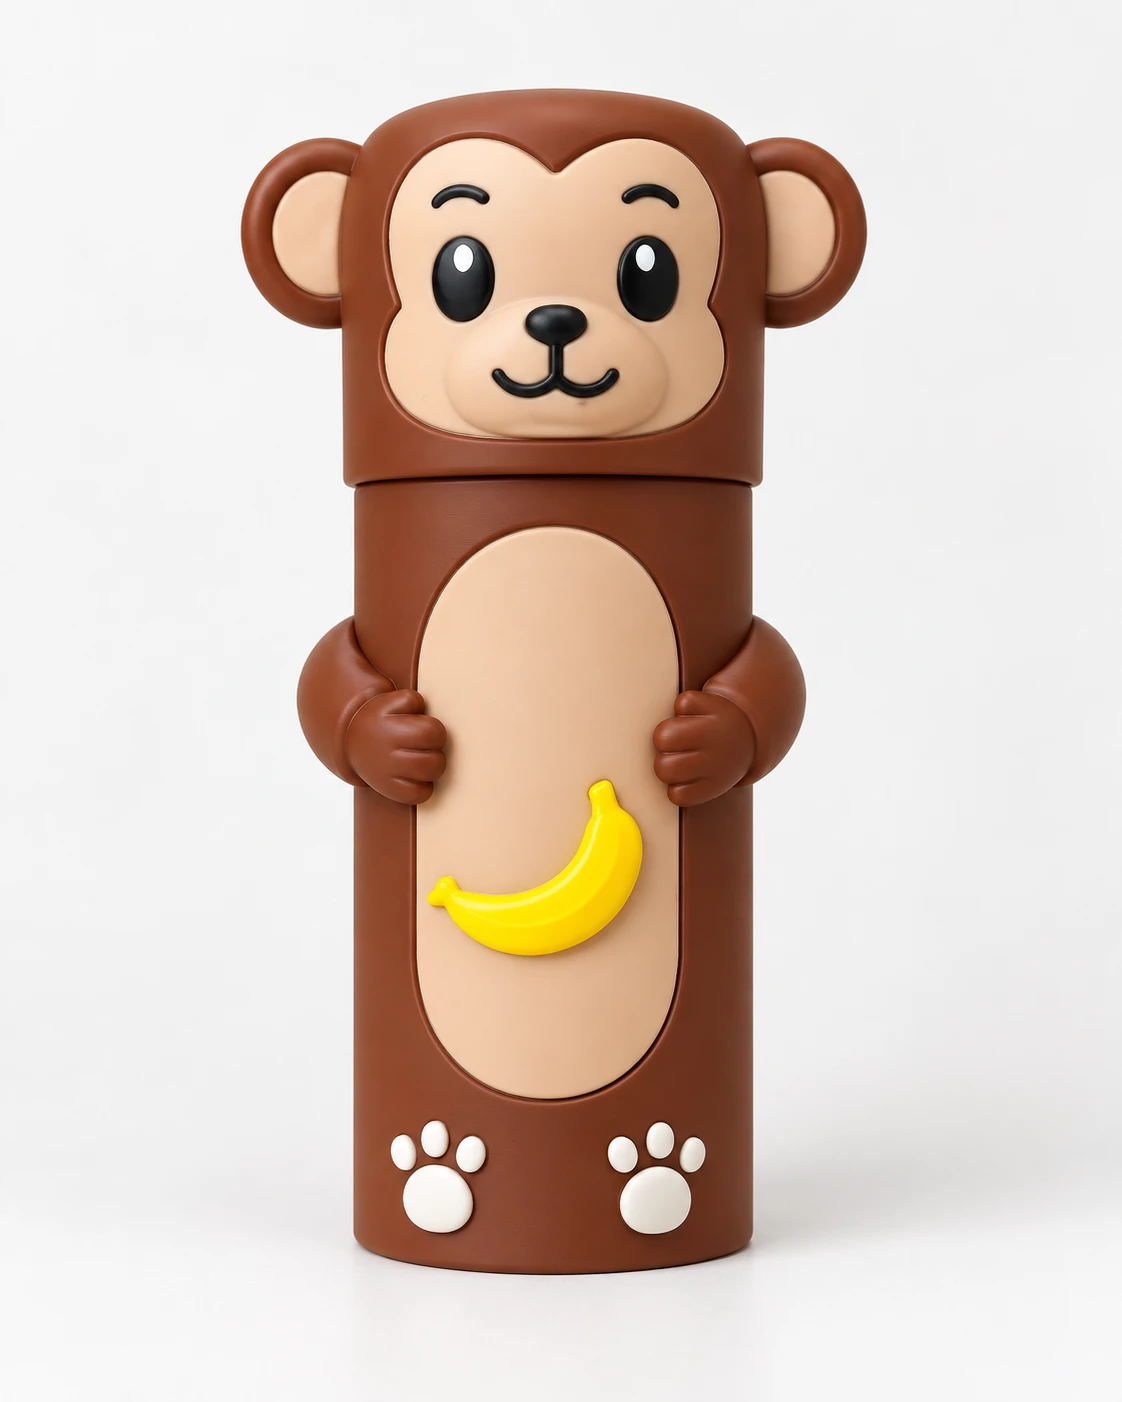
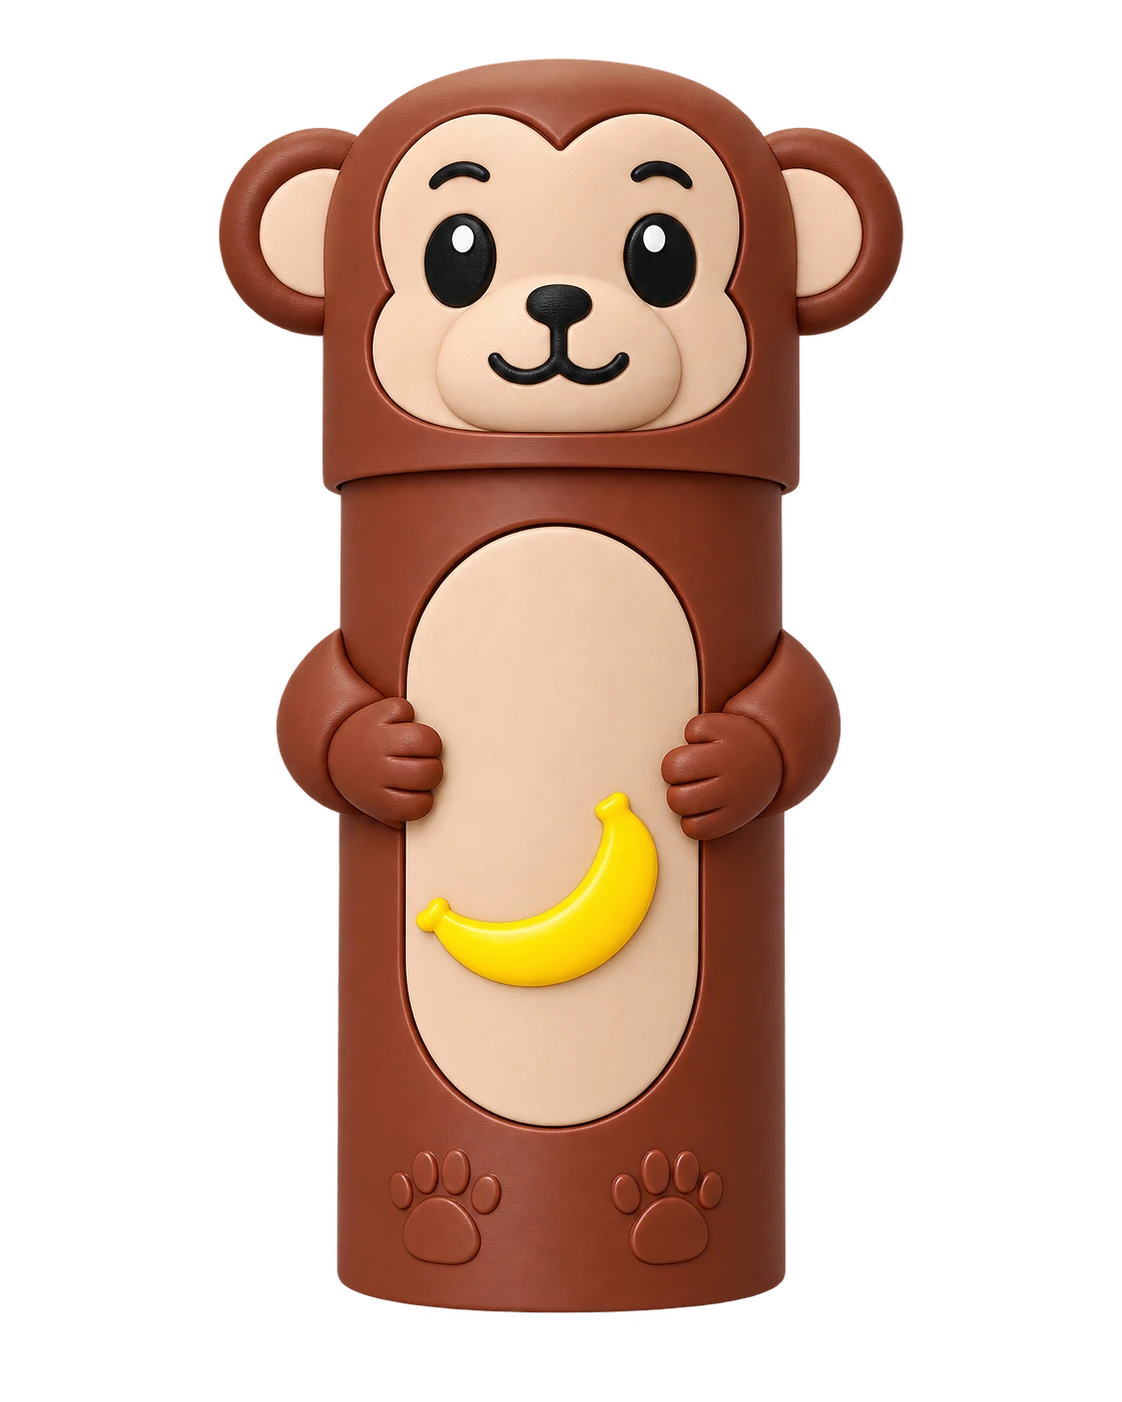
feat(macaco): the new product photo (brown paw prints) as the vitrine picture and cards
- product-macacoscopio-cutout.webp (banner, "Foto" tab and demonstration), card-macacoscopio.webp and card-preview-macacoscopio.webp
  from the photo sent on 02/10/2026 in place of the previous one (design/originais/macacoscopio-foto.webp, already on a transparent
  background). recortar_foto.py now uses the photo's own alpha when it has one, and still cuts a light background otherwise.
- Same height and bottom margin as the other vitrine pictures, the sleeve centred on the lamp's axis: the black column (350 px in the
  1254 frame) stays behind the photo's sleeve (about 388 px), so the demonstration fits with the same lamp layers.
- products.js art h .8732, bottom .0534, foot .3118.

Changed region(s): [[0.1872, 0.0307, 1.0, 0.9508]]

diff --git a/dist/products.js b/dist/products.js
@@ -92,7 +92,7 @@ export const SHOWCASE = {
     }
   },
   macacoscopio:{
-    art:{h:.874, bottom:.0518, foot:.2935, alt:'Macacoscópio, capa de macaco marrom com uma banana, sobre uma pilastra branca'},
+    art:{h:.8732, bottom:.0534, foot:.3118, alt:'Macacoscópio, capa de macaco marrom com uma banana, sobre uma pilastra branca'},
     theme:{bannerStops:'#fcf5e5 0%,#f5e8c8 52%,#eddcb5 100%', headerBackground:'#f6ebd0', textColor:'#33200f', mutedColor:'#634526', accentColor:'#86441a'},
     demo:{
       // A lâmpada de fenda portátil em duas partes, renderizadas com a câmera da foto da vitrine (tools/render-aviao-macaco/monkeylamp.html):

diff --git a/tools/modelo-macaco/recortar_foto.py b/tools/modelo-macaco/recortar_foto.py
@@ -1,6 +1,6 @@
 """Recorta a foto do Macacoscópio (fundo cinza-claro neutro) e a encaixa no quadro das fotos da vitrine.
 Uso: blender -b -P recortar_foto.py -- <foto> <saida.png> [h=.8716] [bottom=.0542] [S=1254]
-- fundo: região neutra (pouca saturação) ligada à borda da imagem: o fundo claro e a sombra no chão, também neutra, saem juntos;
+- se a foto já tem fundo transparente, usa o alfa dela; senão, fundo: região neutra (pouca saturação) ligada à borda da imagem: o fundo claro e a sombra no chão, também neutra, saem juntos;
   o que é claro mas fica cercado pelo macaco (patinhas, brilho dos olhos) não é alcançado e fica;
 - borda: alfa pela mistura entre a cor do macaco (vizinho de dentro) e a do fundo (superfície ajustada), e a cor sem a mistura;
 - quadro: quadrado S, a peça com altura h e margem de baixo `bottom` (os números `art` do products.js), centrada no eixo do tubo.
@@ -8,7 +8,8 @@ Uso: blender -b -P recortar_foto.py -- <foto> <saida.png> [h=.8716] [bottom=.054
 import bpy,os,sys,numpy as np
 a=sys.argv[sys.argv.index('--')+1:];src,dst=os.path.abspath(a[0]),os.path.abspath(a[1])
 H=float(a[2]) if len(a)>2 else .8716;BOT=float(a[3]) if len(a)>3 else .0542;S=int(a[4]) if len(a)>4 else 1254
-im=bpy.data.images.load(src);w,h=im.size;x=np.array(im.pixels[:],np.float32).reshape(h,w,4)[::-1,:,:3].copy();bpy.data.images.remove(im)
+im=bpy.data.images.load(src);w,h=im.size;x4=np.array(im.pixels[:],np.float32).reshape(h,w,4)[::-1].copy();bpy.data.images.remove(im);x=x4[...,:3].copy()
+HAS_ALPHA=x4[...,3].min()<.99      # a foto já vem recortada (fundo transparente): usa o alfa dela
 mx=x.max(2);mn=x.min(2);sat=(mx-mn)/np.maximum(mx,1e-6)
 def shift(m,dy,dx):
     o=np.zeros_like(m);ys=slice(max(dy,0),h+min(dy,0));yd=slice(max(-dy,0),h+min(-dy,0));xs=slice(max(dx,0),w+min(dx,0));xd=slice(max(-dx,0),w+min(-dx,0))
@@ -16,7 +17,7 @@ def shift(m,dy,dx):
 def dil(m,k=1):
     for _ in range(k):m=m|shift(m,1,0)|shift(m,-1,0)|shift(m,0,1)|shift(m,0,-1)
     return m
-cand=(sat<.14)&(mx>.25)        # neutro: fundo claro e a sombra (de contato também), mais escura
+cand=np.zeros((h,w),bool) if HAS_ALPHA else (sat<.14)&(mx>.25)        # neutro: fundo claro e a sombra (de contato também), mais escura
 bg=np.zeros((h,w),bool);bg[0,:]=cand[0,:];bg[-1,:]=cand[-1,:];bg[:,0]=cand[:,0];bg[:,-1]=cand[:,-1]
 while True:
     n=dil(bg)&cand
@@ -40,6 +41,7 @@ for _ in range(8):
 d=F-B;al=np.clip(((x-B)*d).sum(2)/np.maximum((d*d).sum(2),1e-6),0,1)
 alpha=np.where(core,1.,np.where(band,al,0.)).astype(np.float32)
 col=np.where(alpha[...,None]>.02,B+(x-B)/np.maximum(alpha[...,None],.02),F);col=np.clip(np.where(core[...,None],x,col),0,1)
+if HAS_ALPHA:alpha,col=x4[...,3].copy(),x
 ys,xs=np.where(alpha>.5);top,bot=ys.min(),ys.max()
 # eixo do tubo: centro das linhas entre 55% e 85% da altura (abaixo das mãos, acima dos pés)
 mid=[(np.where(alpha[r]>.5)[0].min()+np.where(alpha[r]>.5)[0].max())/2 for r in range(int(top+.55*(bot-top)),int(top+.85*(bot-top)))]

diff --git a/VITRINE-AVIAO-MACACO-QA.md b/VITRINE-AVIAO-MACACO-QA.md
@@ -89,13 +89,14 @@ orelhas e os pés), `features` (preto: olhos, sobrancelhas, nariz e boca), `bana
 olhos, das orelhas, da barriga, da banana, dos pés, das costas e de dentro do tubo.
 
 **Foto da vitrine e cards (02/10/2026):** `product-macacoscopio-cutout.webp` (banner, aba "Foto" e demonstração), `card-macacoscopio.webp`
-e `card-preview-macacoscopio.webp` vêm da foto enviada em 02/10/2026 (`design/originais/macacoscopio-foto.webp`), recortada do
-fundo por `tools/modelo-macaco/recortar_foto.py` (Blender): o fundo e a sombra no chão são a região neutra ligada à borda da imagem; a
-borda do macaco tem alfa pela mistura com o fundo. A peça fica com a mesma altura e a mesma margem de baixo das outras fotos e o tubo
-centrado no eixo da lâmpada: a coluna preta (350 px no quadro de 1254) fica atrás do tubo da foto (366 px), então a demonstração encaixa
-igual, com as mesmas camadas da lâmpada. `products.js`: art h .874, bottom .0518, foot .2935. `tools/modelo-macaco/vitrine_webp.py` grava
-os WebP (foto e cards com a altura e a margem de baixo dos cards anteriores). Para refazer a foto a partir do modelo 3D em vez da foto,
-`monkeylamp.html?model=rodin` (`tools/render-aviao-macaco/monkey-rodin.js`) renderiza o modelo do site com a câmera da vitrine.
+e `card-preview-macacoscopio.webp` vêm da foto enviada em 02/10/2026 (`design/originais/macacoscopio-foto.webp`, já com o fundo
+transparente). `tools/modelo-macaco/recortar_foto.py` (Blender) a encaixa no quadro das fotos da vitrine: a mesma altura e a mesma margem
+de baixo das outras e o tubo centrado no eixo da lâmpada; a coluna preta (350 px no quadro de 1254) fica atrás do tubo da foto (cerca de
+388 px), então a demonstração encaixa igual, com as mesmas camadas da lâmpada. Se vier uma foto com fundo claro, o mesmo script recorta:
+o fundo e a sombra no chão são a região neutra ligada à borda da imagem, e a borda do macaco tem alfa pela mistura com o fundo.
+`products.js`: art h .8732, bottom .0534, foot .3118. `tools/modelo-macaco/vitrine_webp.py` grava os WebP (foto e cards com a altura e a
+margem de baixo dos cards anteriores). Para fazer a foto a partir do modelo 3D, `monkeylamp.html?model=rodin`
+(`tools/render-aviao-macaco/monkey-rodin.js`) renderiza o modelo do site com a câmera da vitrine.
 
 **Pendências para pôr à venda** (sem elas o macaco não pode entrar em `PRODUCTS`: o frete para de calcular para todos sem o peso,
 e a nota fiscal pausa sem o NCM):
